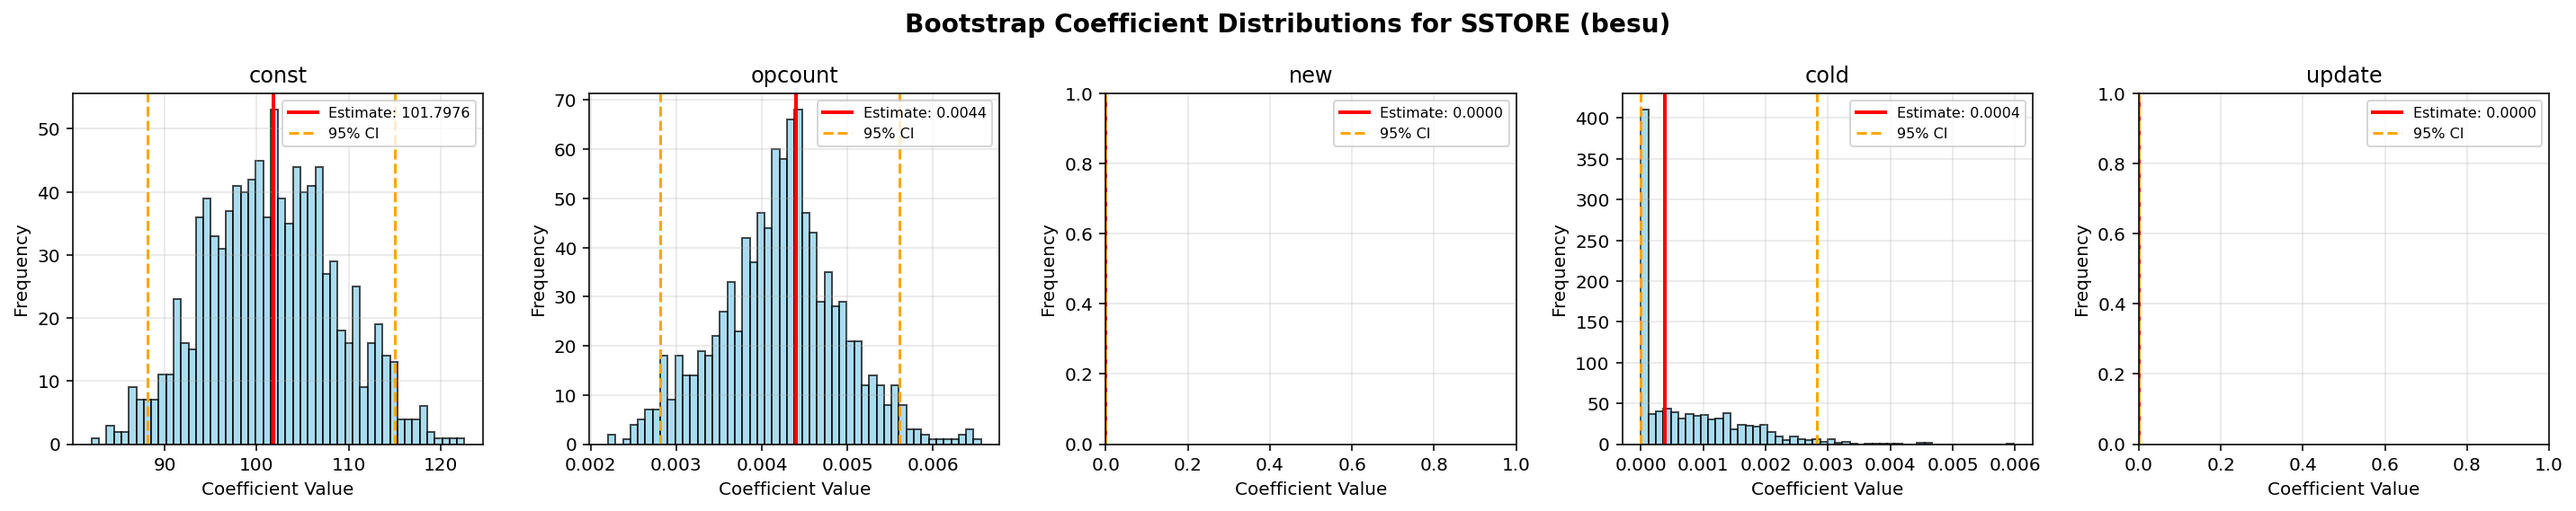
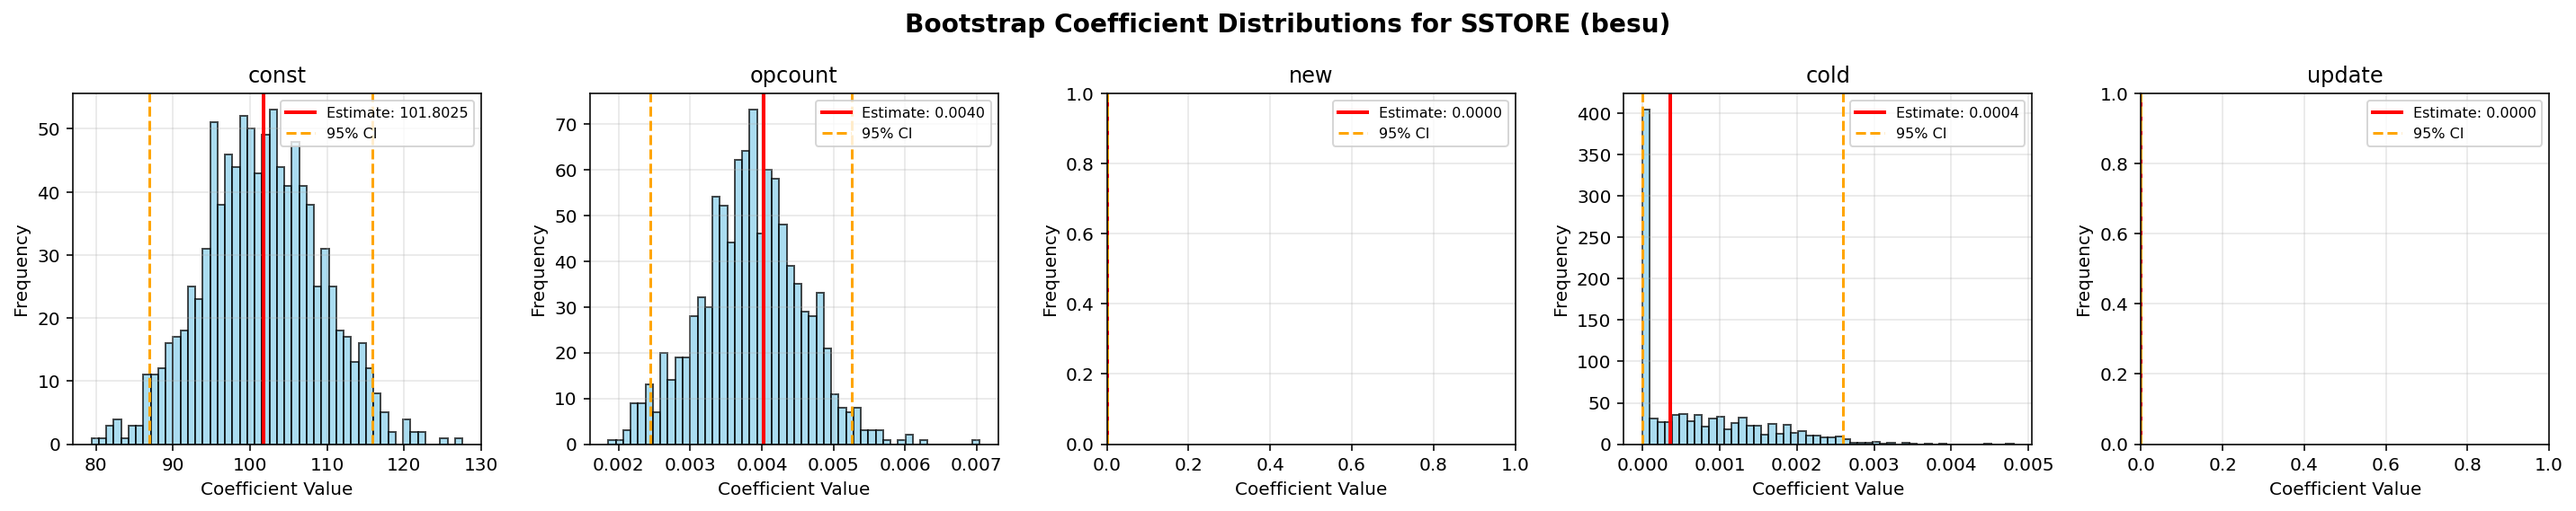
Fix bug in client names

diff --git a/src/data.py b/src/data.py
@@ -74,6 +74,9 @@ def process_gas_bench_data(
     """
     engine = create_engine(gas_bench_db_url)
     df = pd.read_sql(query_str, con=engine)
+    # Fix client names
+    df["client_name"] = df["client_name"].str.replace("_repricings_stateful_mainnet", "")
+    # Process title column
     df = process_test_title_col(df)
     # Filter bn128_add_infinities test config -> it is not the worse case for this opcode!
     df = df[df["test_params"] != "bn128_add_infinities"]

diff --git a/reports/eip-8038/runtime_estimation/2026-01-26_2026-02-17/runtime_estimation_autogenerated_report_mainnet.md b/reports/eip-8038/runtime_estimation/2026-01-26_2026-02-17/runtime_estimation_autogenerated_report_mainnet.md
@@ -77,18 +77,18 @@ We also plot some diagnostic graphs for each operation and client combination to
 ==============================================================================
                            NNLS Regression Results                            
 ==============================================================================
-Dep. Variable:          run_duration_ms              R-squared:          0.257
-Model:                  NNLS                    Adj. R-squared:          0.251
-No. Observations:       510                               RMSE:         188.20
-Df Residuals:           505                                MAE:         111.36
+Dep. Variable:          run_duration_ms              R-squared:          0.234
+Model:                  NNLS                    Adj. R-squared:          0.228
+No. Observations:       520                               RMSE:         189.29
+Df Residuals:           515                                MAE:         111.40
 Df Model:               4      
 ==============================================================================
                       coef     std err     P-value      [0.025      0.975]
 ------------------------------------------------------------------------------
-         const    101.7976      7.0792       0.000     88.1705    115.0500
-       opcount      0.0044      0.0007       0.000      0.0028      0.0056
+         const    101.8025      7.5558       0.000     86.9434    115.8896
+       opcount      0.0040      0.0007       0.000      0.0024      0.0053
            new      0.0000      0.0000       1.000      0.0000      0.0000
-          cold      0.0004      0.0009       0.378      0.0000      0.0028
+          cold      0.0004      0.0008       0.379      0.0000      0.0026
         update      0.0000      0.0000       1.000      0.0000      0.0000
 ==============================================================================
 Notes: Non-negative least squares with bootstrap inference (1000 iterations)
@@ -109,17 +109,17 @@ Notes: Non-negative least squares with bootstrap inference (1000 iterations)
 ==============================================================================
                            NNLS Regression Results                            
 ==============================================================================
-Dep. Variable:          run_duration_ms              R-squared:          0.122
-Model:                  NNLS                    Adj. R-squared:          0.114
-No. Observations:       430                               RMSE:           6.32
-Df Residuals:           425                                MAE:           2.37
+Dep. Variable:          run_duration_ms              R-squared:          0.196
+Model:                  NNLS                    Adj. R-squared:          0.189
+No. Observations:       440                               RMSE:           8.16
+Df Residuals:           435                                MAE:           3.37
 Df Model:               4      
 ==============================================================================
                       coef     std err     P-value      [0.025      0.975]
 ------------------------------------------------------------------------------
-         const     47.9795      0.2380       0.000     47.4961     48.4090
-       opcount      0.0002      0.0001       0.004      0.0000      0.0005
-           new      0.0033      0.0032       0.315      0.0000      0.0100
+         const     48.4785      0.3147       0.000     47.8770     49.1053
+       opcount      0.0002      0.0001       0.000      0.0001      0.0005
+           new      0.0048      0.0029       0.138      0.0000      0.0099
           cold      0.0000      0.0000       1.000      0.0000      0.0000
         update      0.0000      0.0000       1.000      0.0000      0.0000
 ==============================================================================
@@ -141,17 +141,17 @@ Notes: Non-negative least squares with bootstrap inference (1000 iterations)
 ==============================================================================
                            NNLS Regression Results                            
 ==============================================================================
-Dep. Variable:          run_duration_ms              R-squared:          0.245
-Model:                  NNLS                    Adj. R-squared:          0.239
-No. Observations:       510                               RMSE:          30.92
-Df Residuals:           505                                MAE:          18.34
+Dep. Variable:          run_duration_ms              R-squared:          0.236
+Model:                  NNLS                    Adj. R-squared:          0.230
+No. Observations:       520                               RMSE:          30.91
+Df Residuals:           515                                MAE:          18.60
 Df Model:               4      
 ==============================================================================
                       coef     std err     P-value      [0.025      0.975]
 ------------------------------------------------------------------------------
-         const     57.0168      1.2057       0.000     54.6883     59.4072
-       opcount      0.0008      0.0001       0.000      0.0006      0.0011
-           new      0.0000      0.0002       1.000      0.0000      0.0008
+         const     57.3619      1.2716       0.000     54.9277     59.6652
+       opcount      0.0007      0.0001       0.000      0.0006      0.0010
+           new      0.0000      0.0003       1.000      0.0000      0.0011
           cold      0.0000      0.0000       1.000      0.0000      0.0000
         update      0.0000      0.0000       1.000      0.0000      0.0000
 ==============================================================================
@@ -164,102 +164,6 @@ Notes: Non-negative least squares with bootstrap inference (1000 iterations)
 <img src="./figs/SSTORE_nethermind_diagnostics.png" alt="SSTORE_nethermind_diagnostics" width="600"/>
 
 <img src="./figs/SSTORE_nethermind_bootstrap.png" alt="SSTORE_nethermind_bootstrap" width="600"/>
-
-
-## besu_repricings_stateful_mainnet
-
-
-```python
-==============================================================================
-                           NNLS Regression Results                            
-==============================================================================
-Dep. Variable:          run_duration_ms              R-squared:          0.000
-Model:                  NNLS                    Adj. R-squared:         -0.800
-No. Observations:       10                                RMSE:           0.00
-Df Residuals:           5                                  MAE:           0.00
-Df Model:               4      
-==============================================================================
-                      coef     std err     P-value      [0.025      0.975]
-------------------------------------------------------------------------------
-         const    101.2576      0.0000       0.000    101.2576    101.2576
-       opcount      0.0000      0.0000       1.000      0.0000      0.0000
-           new      0.0000      0.0000       1.000      0.0000      0.0000
-          cold      0.0000      0.0000       1.000      0.0000      0.0000
-        update      0.0000      0.0000       1.000      0.0000      0.0000
-==============================================================================
-Notes: Non-negative least squares with bootstrap inference (1000 iterations)
-==============================================================================
-```
-
-<img src="./figs/SSTORE_besu_repricings_stateful_mainnet_regression.png" alt="SSTORE_besu_repricings_stateful_mainnet_regression" width="600"/>
-
-<img src="./figs/SSTORE_besu_repricings_stateful_mainnet_diagnostics.png" alt="SSTORE_besu_repricings_stateful_mainnet_diagnostics" width="600"/>
-
-<img src="./figs/SSTORE_besu_repricings_stateful_mainnet_bootstrap.png" alt="SSTORE_besu_repricings_stateful_mainnet_bootstrap" width="600"/>
-
-
-## geth_repricings_stateful_mainnet
-
-
-```python
-==============================================================================
-                           NNLS Regression Results                            
-==============================================================================
-Dep. Variable:          run_duration_ms              R-squared:          0.900
-Model:                  NNLS                    Adj. R-squared:          0.820
-No. Observations:       10                                RMSE:           0.00
-Df Residuals:           5                                  MAE:           0.00
-Df Model:               4      
-==============================================================================
-                      coef     std err     P-value      [0.025      0.975]
-------------------------------------------------------------------------------
-         const     89.9567      0.0000       0.000     89.9567     89.9567
-       opcount      0.0000      0.0000       1.000      0.0000      0.0000
-           new      0.0000      0.0000       1.000      0.0000      0.0000
-          cold      0.0000      0.0000       1.000      0.0000      0.0000
-        update      0.0000      0.0000       1.000      0.0000      0.0000
-==============================================================================
-Notes: Non-negative least squares with bootstrap inference (1000 iterations)
-==============================================================================
-```
-
-<img src="./figs/SSTORE_geth_repricings_stateful_mainnet_regression.png" alt="SSTORE_geth_repricings_stateful_mainnet_regression" width="600"/>
-
-<img src="./figs/SSTORE_geth_repricings_stateful_mainnet_diagnostics.png" alt="SSTORE_geth_repricings_stateful_mainnet_diagnostics" width="600"/>
-
-<img src="./figs/SSTORE_geth_repricings_stateful_mainnet_bootstrap.png" alt="SSTORE_geth_repricings_stateful_mainnet_bootstrap" width="600"/>
-
-
-## nethermind_repricings_stateful_mainnet
-
-
-```python
-==============================================================================
-                           NNLS Regression Results                            
-==============================================================================
-Dep. Variable:          run_duration_ms              R-squared:          0.000
-Model:                  NNLS                    Adj. R-squared:         -0.800
-No. Observations:       10                                RMSE:           0.00
-Df Residuals:           5                                  MAE:           0.00
-Df Model:               4      
-==============================================================================
-                      coef     std err     P-value      [0.025      0.975]
-------------------------------------------------------------------------------
-         const     83.6014      0.0000       0.000     83.6014     83.6014
-       opcount      0.0000      0.0000       1.000      0.0000      0.0000
-           new      0.0000      0.0000       1.000      0.0000      0.0000
-          cold      0.0000      0.0000       1.000      0.0000      0.0000
-        update      0.0000      0.0000       1.000      0.0000      0.0000
-==============================================================================
-Notes: Non-negative least squares with bootstrap inference (1000 iterations)
-==============================================================================
-```
-
-<img src="./figs/SSTORE_nethermind_repricings_stateful_mainnet_regression.png" alt="SSTORE_nethermind_repricings_stateful_mainnet_regression" width="600"/>
-
-<img src="./figs/SSTORE_nethermind_repricings_stateful_mainnet_diagnostics.png" alt="SSTORE_nethermind_repricings_stateful_mainnet_diagnostics" width="600"/>
-
-<img src="./figs/SSTORE_nethermind_repricings_stateful_mainnet_bootstrap.png" alt="SSTORE_nethermind_repricings_stateful_mainnet_bootstrap" width="600"/>
 
 
 # SLOAD
@@ -353,15 +257,3 @@ Notes: Non-negative least squares with bootstrap inference (1000 iterations)
 
 <img src="./figs/SLOAD_nethermind_bootstrap.png" alt="SLOAD_nethermind_bootstrap" width="600"/>
 
-
-## besu_repricings_stateful_mainnet
-
-NNLS model did not run... Error: No valid data remaining after dropping NaN values
-
-## geth_repricings_stateful_mainnet
-
-NNLS model did not run... Error: No valid data remaining after dropping NaN values
-
-## nethermind_repricings_stateful_mainnet
-
-NNLS model did not run... Error: No valid data remaining after dropping NaN values

diff --git a/reports/eip-8038/runtime_estimation/2026-01-26_2026-02-17/new_gas_proposal_mainnet.md b/reports/eip-8038/runtime_estimation/2026-01-26_2026-02-17/new_gas_proposal_mainnet.md
@@ -61,13 +61,13 @@ The following plot shows the new gas costs (rounded) for each operation paramete
 The following parameters had a poor model fit:
 
 
-- SSTORE - cold - nethermind_repricings_stateful_mainnet, nethermind, geth_repricings_stateful_mainnet, besu_repricings_stateful_mainnet, besu, geth
+- SSTORE - cold - nethermind, besu, geth
 
-- SSTORE - new - nethermind_repricings_stateful_mainnet, nethermind, geth_repricings_stateful_mainnet, besu_repricings_stateful_mainnet, besu, geth
+- SSTORE - new - nethermind, besu, geth
 
-- SSTORE - slope - nethermind_repricings_stateful_mainnet, nethermind, geth_repricings_stateful_mainnet, besu_repricings_stateful_mainnet, besu, geth
+- SSTORE - slope - nethermind, besu, geth
 
-- SSTORE - update - nethermind_repricings_stateful_mainnet, nethermind, geth_repricings_stateful_mainnet, besu_repricings_stateful_mainnet, besu, geth
+- SSTORE - update - nethermind, besu, geth
 
 
 
@@ -76,3 +76,5 @@ The following operations have no estimation for the following clients:
 
 
 - SLOAD: erigon, reth
+
+- SSTORE: erigon, reth

diff --git a/reports/eip-8038/runtime_estimation/2026-01-26_2026-02-17/new_gas_proposal_perf_devnet_2.md b/reports/eip-8038/runtime_estimation/2026-01-26_2026-02-17/new_gas_proposal_perf_devnet_2.md
@@ -62,11 +62,11 @@ The following plot shows the new gas costs (rounded) for each operation paramete
 The following parameters had a poor model fit:
 
 
-- SSTORE - cold - besu, nethermind, geth
+- SSTORE - cold - nethermind, besu, geth
 
-- SSTORE - new - besu, nethermind, geth
+- SSTORE - new - nethermind, besu, geth
 
-- SSTORE - update - besu, nethermind, geth
+- SSTORE - update - nethermind, besu, geth
 
 
 
